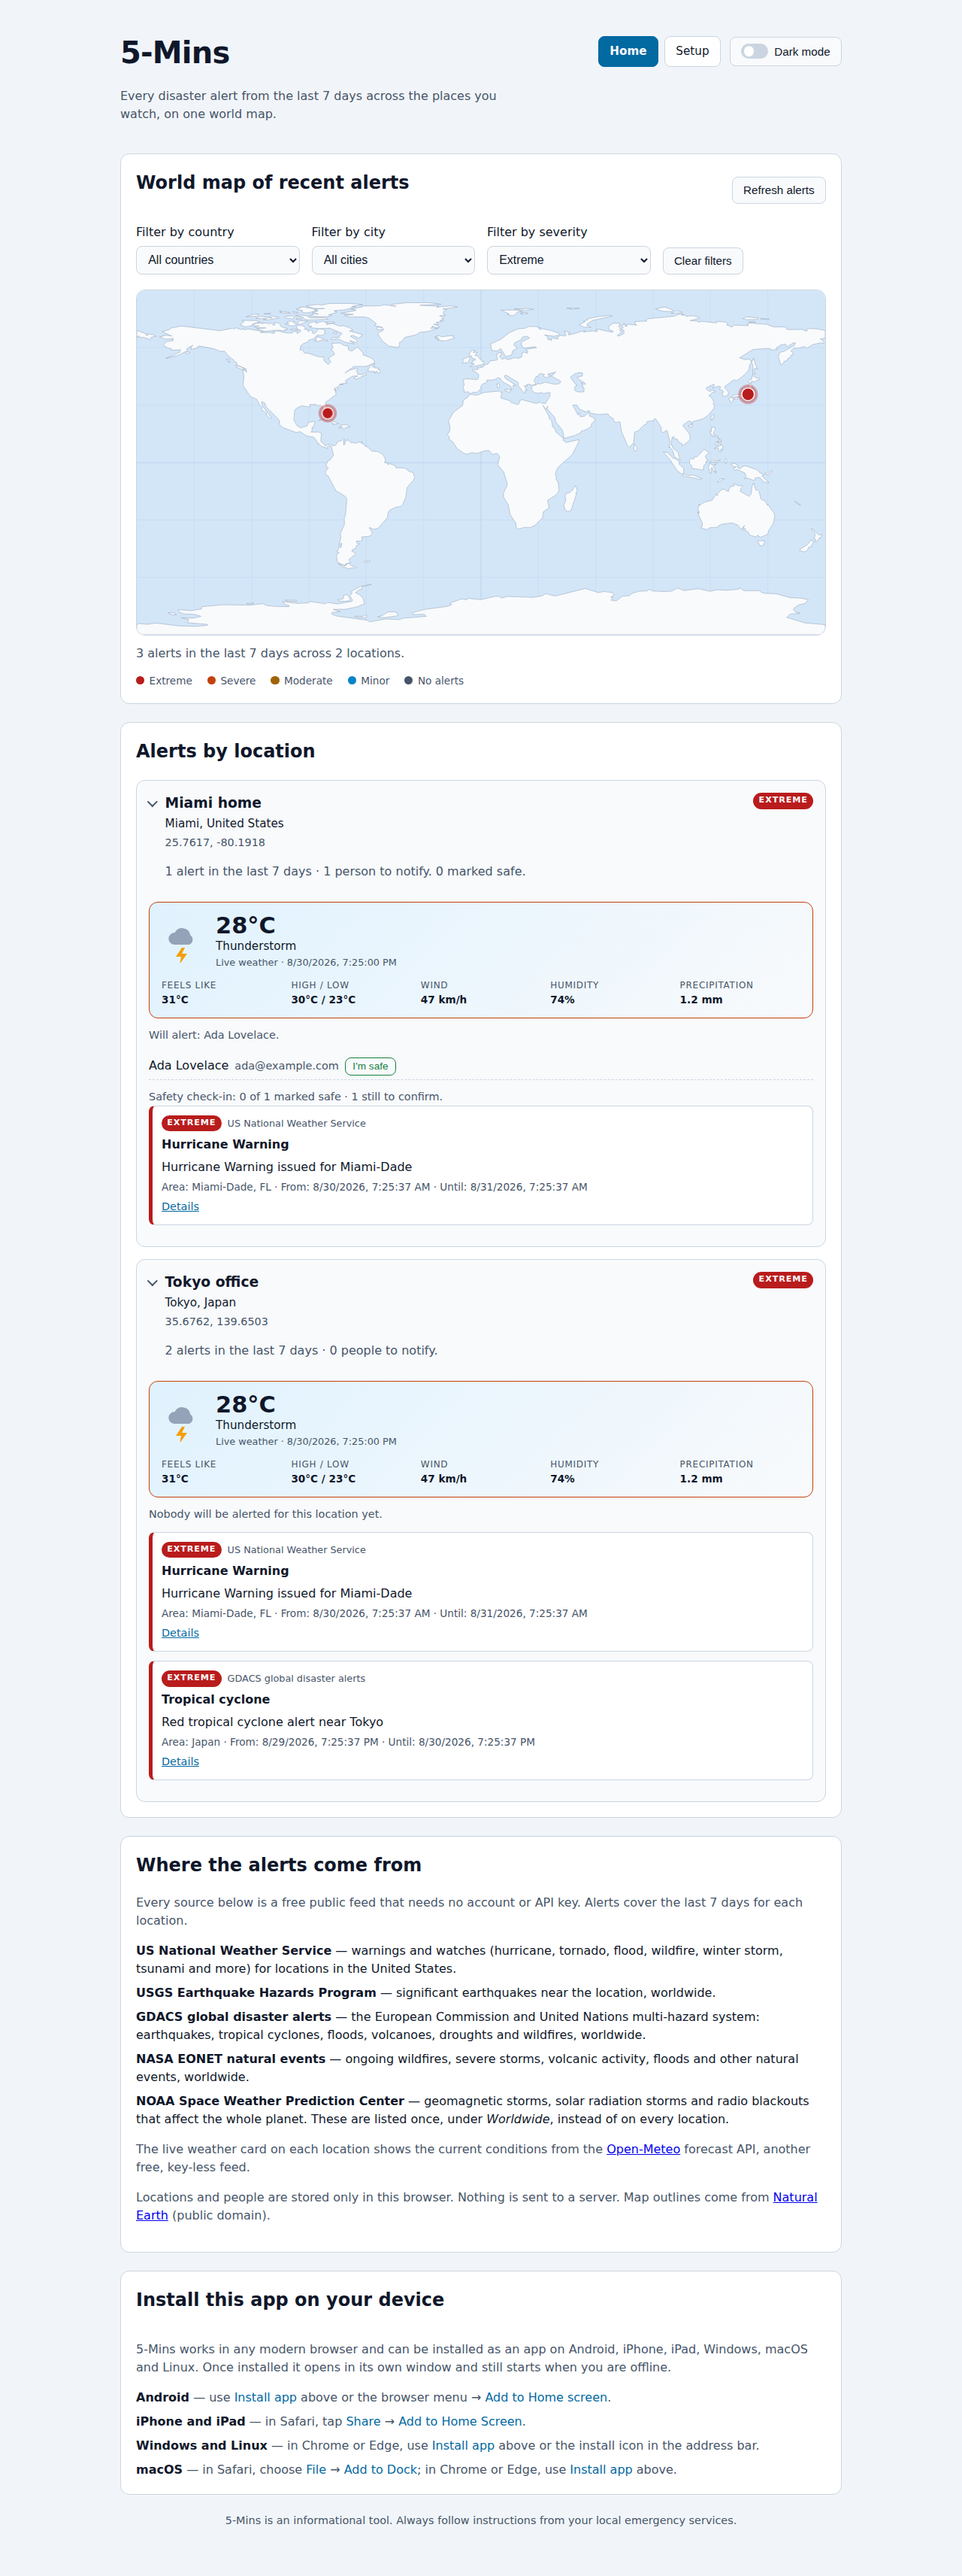
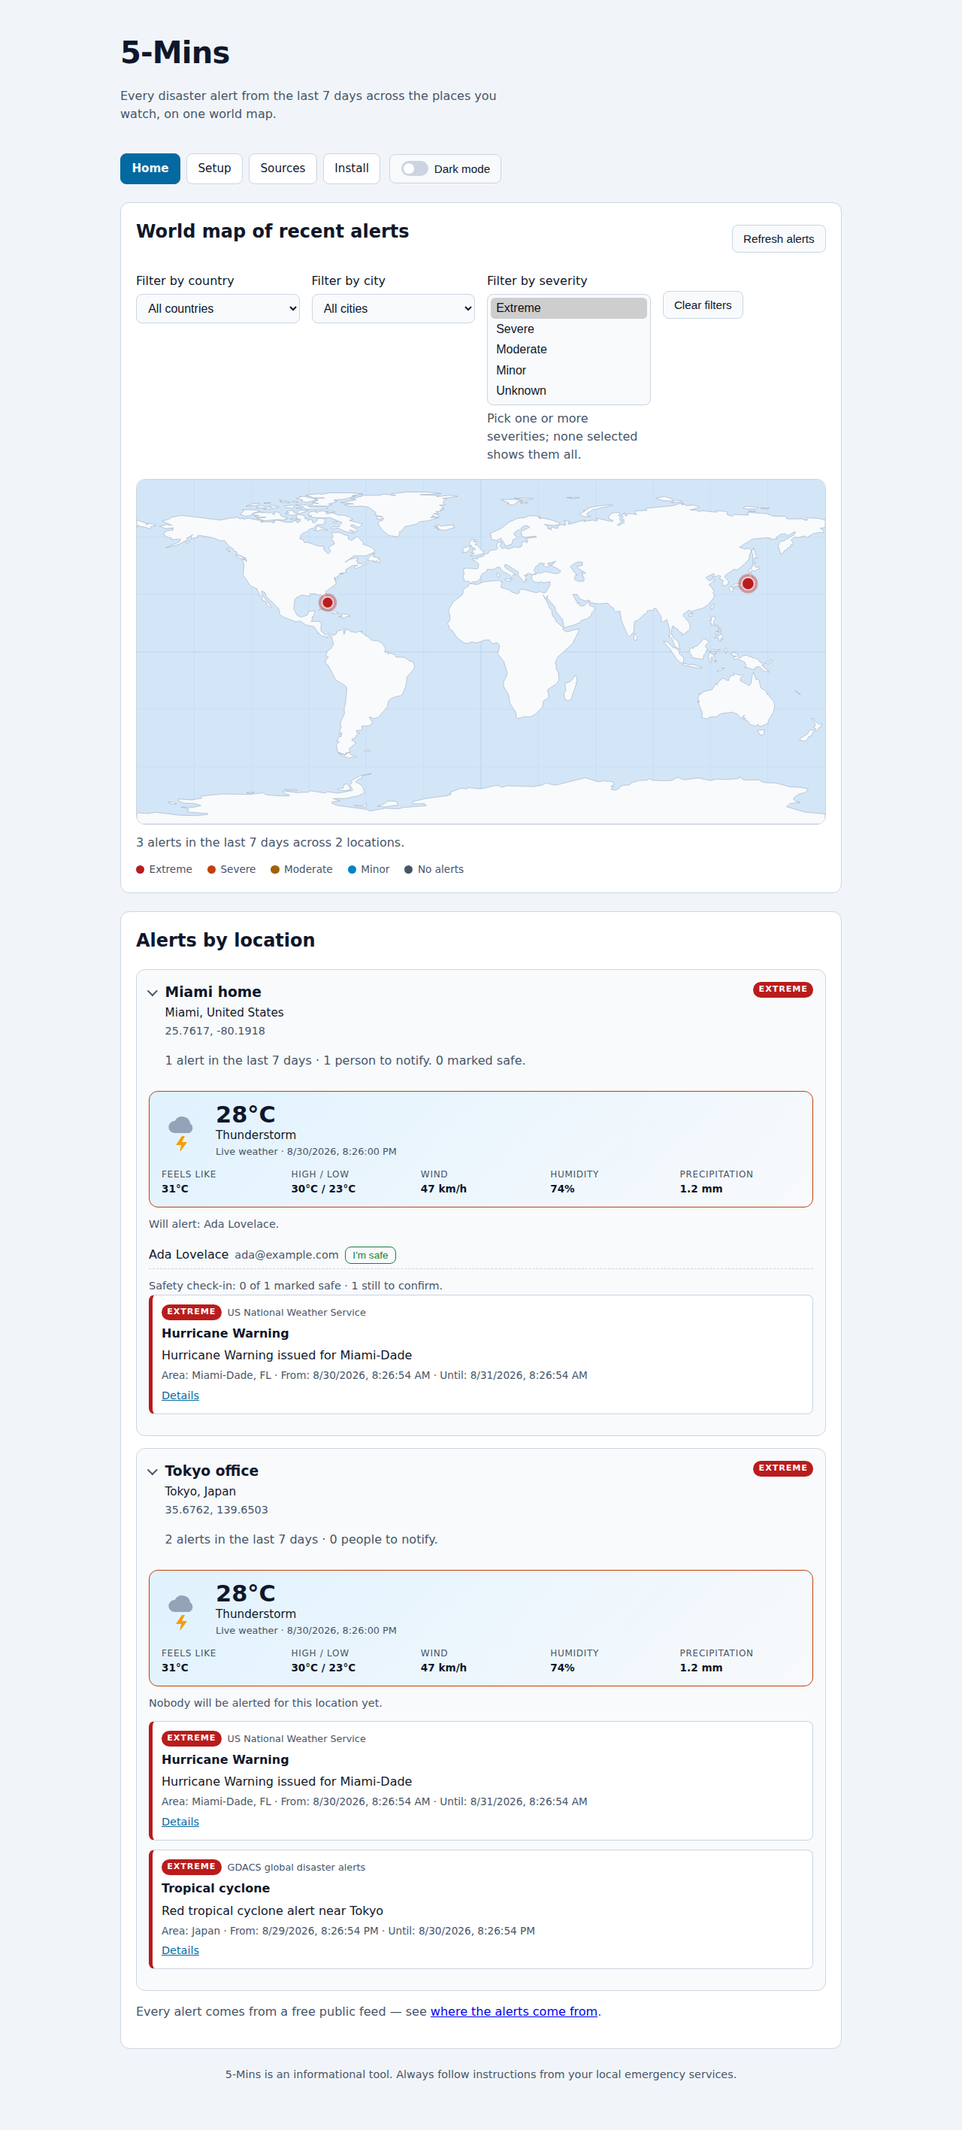
Allow filtering by several severities at once

diff --git a/assets/js/home.js b/assets/js/home.js
@@ -36,7 +36,8 @@ const locations = loadLocations();
 const results = new Map();
 /** Live weather per location id: `{ status, weather, error }`. */
 const weatherResults = new Map();
-const filters = { country: "", city: "", severity: "" };
+/** `severity` holds every selected severity key; empty means "all of them". */
+const filters = { country: "", city: "", severity: [] };
 /** Labels for filters that came from the URL and match no location. */
 const filterLabels = { country: "", city: "" };
 /** Ids of the cards the reader has folded away. */
@@ -108,9 +109,12 @@ function localAlerts(location) {
   return resultFor(location).alerts.filter((alert) => !isWorldwideAlert(alert));
 }
 
-/** True while the selected severity filter, if any, keeps this alert. */
+/** True while the selected severity filters, if any, keep this alert. */
 function matchesSeverity(alert) {
-  return !filters.severity || placeKey(alert.severity) === filters.severity;
+  return (
+    filters.severity.length === 0 ||
+    filters.severity.includes(placeKey(alert.severity))
+  );
 }
 
 function filterAlerts(alerts) {
@@ -139,7 +143,7 @@ function placeMatches() {
 function visibleLocations() {
   return placeMatches().filter((location) => {
     // A location still loading is kept so the list does not flash empty.
-    if (!filters.severity || resultFor(location).status === "loading") {
+    if (filters.severity.length === 0 || resultFor(location).status === "loading") {
       return true;
     }
     return filterAlerts(localAlerts(location)).length > 0;
@@ -215,6 +219,35 @@ function fillSelect(select, options, selectedKey, allLabel) {
   }
 }
 
+/**
+ * Fills a multiple-choice filter with `options` and ticks `selectedKeys`.
+ *
+ * A multi-select has no "all" entry: selecting nothing already means "all".
+ */
+function fillMultiSelect(select, options, selectedKeys) {
+  const signature = JSON.stringify(
+    options.map((option) => [option.key, option.label]),
+  );
+
+  if (select.dataset.options !== signature) {
+    select.textContent = "";
+    for (const option of options) {
+      const node = document.createElement("option");
+      node.value = option.key;
+      node.textContent = option.label;
+      select.append(node);
+    }
+    select.dataset.options = signature;
+  }
+
+  for (const node of select.options) {
+    const selected = selectedKeys.includes(node.value);
+    if (node.selected !== selected) {
+      node.selected = selected;
+    }
+  }
+}
+
 /** The severities a reader can filter on, newest feeds included. */
 function severityOptions() {
   return SEVERITY_ORDER.map((severity) => ({
@@ -250,23 +283,28 @@ function renderFilters() {
 
   fillSelect(countryFilter, countries, filters.country, "All countries");
   fillSelect(cityFilter, cities, filters.city, "All cities");
-  fillSelect(severityFilter, severityOptions(), filters.severity, "All severities");
+  fillMultiSelect(severityFilter, severityOptions(), filters.severity);
 
   countryFilter.disabled = countries.length === 0;
   cityFilter.disabled = cities.length === 0;
   severityFilter.disabled = locations.length === 0;
-  clearFiltersButton.disabled = Object.values(filters).every((value) => !value);
+  clearFiltersButton.disabled = !hasFilters();
   // Without a city or country on any location the place filters stay empty,
   // which otherwise looks like a broken control.
   filterHint.hidden =
     locations.length === 0 || countries.length > 0 || cities.length > 0;
 }
 
+function hasFilters() {
+  return Boolean(filters.country || filters.city || filters.severity.length);
+}
+
 function syncFiltersToUrl() {
   const params = new URLSearchParams(window.location.search);
   for (const [key, value] of Object.entries(filters)) {
-    if (value) {
-      params.set(key, value);
+    const query = Array.isArray(value) ? value.join(",") : value;
+    if (query) {
+      params.set(key, query);
     } else {
       params.delete(key);
     }
@@ -286,10 +324,14 @@ function readFiltersFromUrl() {
     filters[field] = placeKey(raw);
     filterLabels[field] = raw;
   }
-  const severity = placeKey(params.get("severity") ?? "");
-  filters.severity = severityOptions().some((option) => option.key === severity)
-    ? severity
-    : "";
+  const known = severityOptions().map((option) => option.key);
+  const wanted = String(params.get("severity") ?? "")
+    .split(",")
+    .map((value) => placeKey(value))
+    .filter((value) => known.includes(value));
+  // Ordered and de-duplicated so `?severity=severe,extreme` and
+  // `?severity=extreme,severe` are the same filter.
+  filters.severity = known.filter((key) => wanted.includes(key));
 }
 
 /* -------------------------------------------------------------------- map */
@@ -769,7 +811,12 @@ cityFilter.addEventListener("change", () => {
 });
 
 severityFilter.addEventListener("change", () => {
-  filters.severity = severityFilter.value;
+  const chosen = new Set(
+    [...severityFilter.selectedOptions].map((option) => option.value),
+  );
+  filters.severity = severityOptions()
+    .map((option) => option.key)
+    .filter((key) => chosen.has(key));
   syncFiltersToUrl();
   render();
 });
@@ -777,7 +824,7 @@ severityFilter.addEventListener("change", () => {
 clearFiltersButton.addEventListener("click", () => {
   filters.country = "";
   filters.city = "";
-  filters.severity = "";
+  filters.severity = [];
   filterLabels.country = "";
   filterLabels.city = "";
   syncFiltersToUrl();

diff --git a/tests/home.spec.js b/tests/home.spec.js
@@ -498,7 +498,7 @@ test("filters by severity", async ({ page }, testInfo) => {
   await page.goto("/");
   await expect(page.locator("[data-alert]")).toHaveCount(10);
 
-  await page.getByLabel("Filter by severity").selectOption({ label: "Extreme" });
+  await page.getByLabel("Filter by severity").selectOption(["extreme"]);
 
   await expect(page).toHaveURL(/severity=extreme/);
   await expect(locationCards(page)).toHaveCount(2);
@@ -512,7 +512,7 @@ test("filters by severity", async ({ page }, testInfo) => {
     contentType: "image/png",
   });
 
-  await page.getByLabel("Filter by severity").selectOption({ label: "Minor" });
+  await page.getByLabel("Filter by severity").selectOption(["minor"]);
 
   // Only Tokyo has no minor alert, so its card and marker drop out.
   await expect(locationCards(page)).toHaveCount(0);
@@ -522,13 +522,58 @@ test("filters by severity", async ({ page }, testInfo) => {
   await expect(page.locator("[data-alert]")).toHaveCount(10);
 });
 
+test("filters by several severities at once", async ({ page }, testInfo) => {
+  await seed(page, [miami, tokyo]);
+  await page.goto("/");
+  await expect(page.locator("[data-alert]")).toHaveCount(10);
+
+  await page
+    .getByLabel("Filter by severity")
+    .selectOption(["extreme", "moderate"]);
+
+  await expect(page).toHaveURL(/severity=extreme%2Cmoderate/);
+  await expect(page.locator('[data-alert][data-severity="Extreme"]')).toHaveCount(3);
+  await expect(page.locator('[data-alert][data-severity="Moderate"]')).toHaveCount(2);
+  await expect(
+    page.locator(
+      '[data-alert]:not([data-severity="Extreme"]):not([data-severity="Moderate"])',
+    ),
+  ).toHaveCount(0);
+
+  await testInfo.attach("home-filtered-by-severities", {
+    body: await page.screenshot({ fullPage: true }),
+    contentType: "image/png",
+  });
+
+  await page.getByRole("button", { name: "Clear filters" }).click();
+  await expect(page.getByLabel("Filter by severity")).toHaveValues([]);
+  await expect(page.locator("[data-alert]")).toHaveCount(10);
+});
+
 test("restores the severity filter from the url", async ({ page }) => {
   await seed(page, [miami]);
   await page.goto("/?severity=moderate");
 
-  await expect(page.getByLabel("Filter by severity")).toHaveValue("moderate");
+  await expect(page.getByLabel("Filter by severity")).toHaveValues(["moderate"]);
   await expect(page.locator("[data-alert]")).toHaveCount(1);
   await expect(page.locator("[data-alert]")).toContainText("Flood Watch");
+});
+
+test("restores several severities from the url", async ({ page }) => {
+  await seed(page, [miami]);
+  await page.goto("/?severity=extreme,moderate");
+
+  await expect(page.getByLabel("Filter by severity")).toHaveValues([
+    "extreme",
+    "moderate",
+  ]);
+  await expect(page.locator('[data-alert][data-severity="Extreme"]')).toHaveCount(1);
+  await expect(page.locator('[data-alert][data-severity="Moderate"]')).toHaveCount(1);
+  await expect(
+    page.locator(
+      '[data-alert]:not([data-severity="Extreme"]):not([data-severity="Moderate"])',
+    ),
+  ).toHaveCount(0);
 });
 
 test("explains empty place filters", async ({ page }) => {

diff --git a/assets/styles.css b/assets/styles.css
@@ -236,8 +236,15 @@ main,
   display: grid;
   grid-template-columns: repeat(auto-fit, minmax(12rem, 1fr));
   gap: 1rem;
-  align-items: end;
+  /* The severity filter is a multi-select, so the fields have unequal heights
+     and line up along their labels instead of their bottom edge. */
+  align-items: start;
   margin-top: 1rem;
+}
+
+.filters .actions {
+  /* Keeps the button on the baseline of the single-line selects. */
+  margin-top: 1.6rem;
 }
 
 .field {
@@ -261,6 +268,19 @@ select {
   color: var(--text);
   font-size: 1rem;
   min-width: 0;
+}
+
+select[multiple] {
+  padding: 0.25rem;
+}
+
+select[multiple] option {
+  padding: 0.3rem 0.45rem;
+  border-radius: 0.35rem;
+}
+
+.field .note {
+  margin: 0;
 }
 
 select:disabled {

diff --git a/index.html b/index.html
@@ -90,9 +90,15 @@
           </div>
           <div class="field">
             <label for="filter-severity">Filter by severity</label>
-            <select id="filter-severity">
-              <option value="">All severities</option>
-            </select>
+            <select
+              id="filter-severity"
+              multiple
+              size="5"
+              aria-describedby="severity-hint"
+            ></select>
+            <p id="severity-hint" class="note">
+              Pick one or more severities; none selected shows them all.
+            </p>
           </div>
           <div class="actions">
             <button type="button" id="clear-filters">Clear filters</button>

diff --git a/README.md b/README.md
@@ -23,9 +23,10 @@ Provide users an alert before a catastrophe or disaster. The crucial minutes to 
 - World map with one marker per location, coloured by the most severe alert
   reported there in the last 7 days and sized by how many alerts there are.
 - Filter the map and the list by **country**, **city** or **severity**. The city
-  filter only offers cities from the selected country, and every filter is kept
-  in the URL (`?country=japan&city=tokyo&severity=extreme`) so a filtered view
-  can be shared.
+  filter only offers cities from the selected country, the severity filter takes
+  **as many severities as you like** at once, and every filter is kept in the URL
+  (`?country=japan&city=tokyo&severity=extreme,severe`) so a filtered view can be
+  shared.
 - Every location card **folds away** with a click on its header; the alert count
   and the worst severity stay visible while it is folded.
 - Click (or focus and press <kbd>Enter</kbd> on) a marker to highlight that
@@ -86,8 +87,13 @@ no local weather card.*
 
 ![Home page filtered to Extreme alerts, showing only the extreme alerts of each location](docs/images/home-filtered-by-severity.png)
 
-*Home — filtered by severity; only alerts of the chosen severity are listed and
+*Home — filtered by severity; only alerts of the chosen severities are listed and
 locations without one drop off the map.*
+
+![Home page filtered to Extreme and Moderate alerts, showing both severities in the lists](docs/images/home-filtered-by-severities.png)
+
+*Home — several severities can be selected together; the choice is kept in the
+URL as `?severity=extreme,moderate`.*
 
 ![Home page with the Miami location card folded, showing only its heading, alert count and severity badge](docs/images/home-folded-location.png)
 
